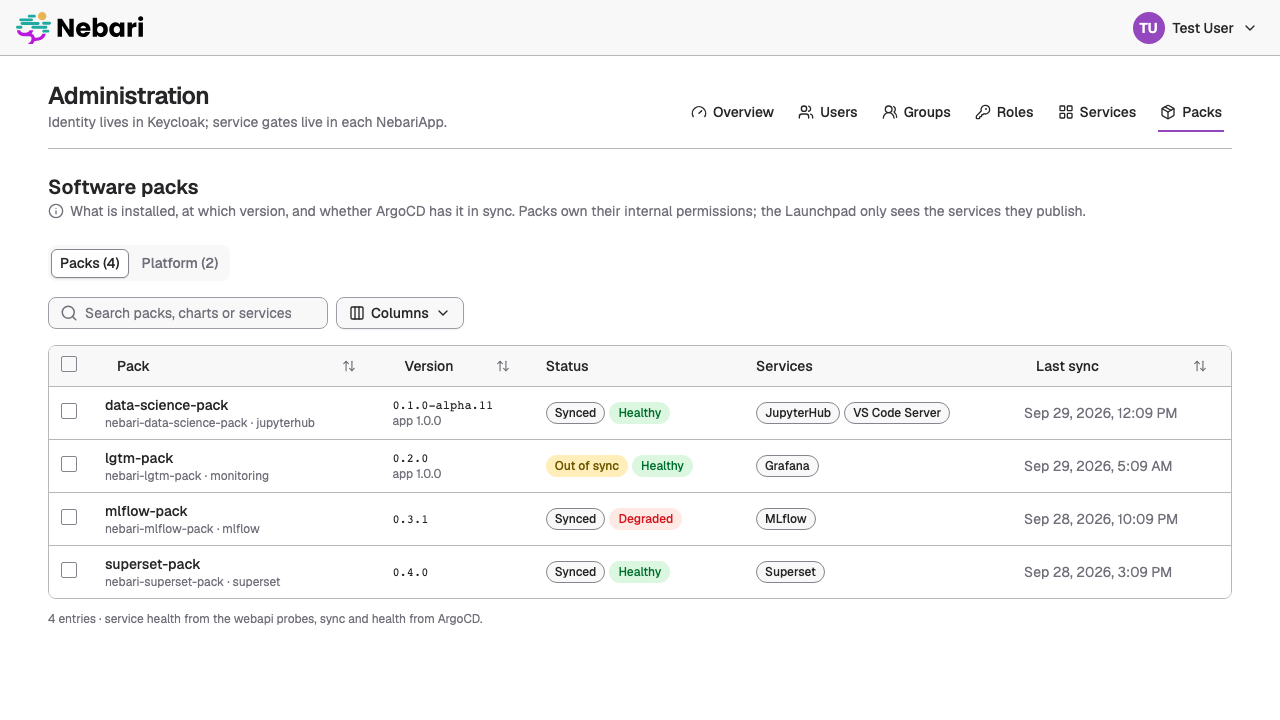
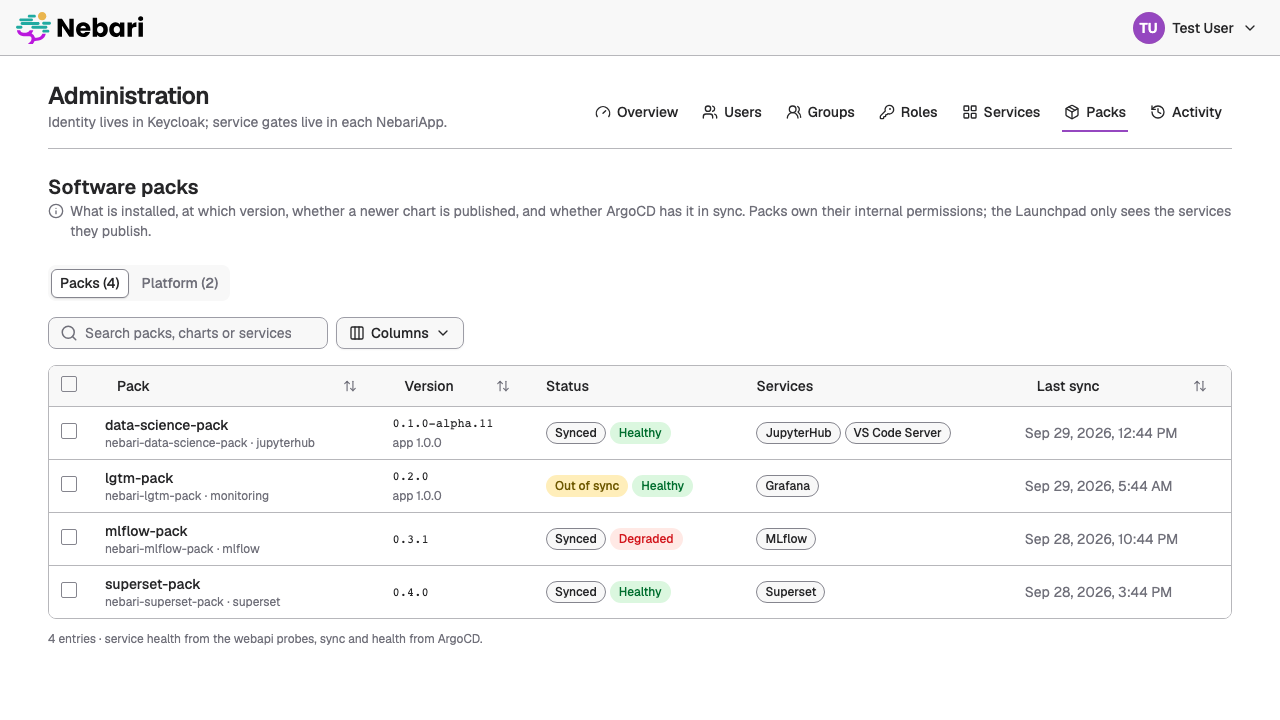
feat(frontend): version drift on pack detail, overview attention and mocks
Claude-Session: https://claude.ai/code/session_01P6LHR1J8qoTHyei6oh5qmU

diff --git a/frontend/src/admin/pages/OverviewPage.tsx b/frontend/src/admin/pages/OverviewPage.tsx
@@ -17,6 +17,7 @@ import { EmptyState } from "../components/EmptyState";
 import { StatusBadge as AccountStatusBadge } from "../components/EntityBadges";
 import { PageHeader } from "../components/PageHeader";
 import { StatTile } from "../components/StatTile";
+import { VersionBadge } from "../components/VersionBadge";
 import { useAdminOverview, useAdminWorld, usePacks } from "../hooks/useAdminData";
 import { displayName, formatDateTime, pluralize } from "../lib/format";
 
@@ -64,7 +65,8 @@ export function OverviewPage() {
       if (!p.argo) continue;
       const bad = p.argo.healthStatus !== "Healthy" && p.argo.healthStatus !== "Unknown";
       const drift = p.argo.syncStatus === "OutOfSync";
-      if (!bad && !drift) continue;
+      const behind = p.versionStatus === "behind";
+      if (!bad && !drift && !behind) continue;
       rows.push({
         key: `pack-${p.name}`,
         kind: p.tier,
@@ -73,6 +75,7 @@ export function OverviewPage() {
           <span className="flex flex-wrap items-center gap-1">
             {drift ? <SyncBadge status={p.argo.syncStatus} /> : null}
             {bad ? <ArgoHealthBadge status={p.argo.healthStatus} /> : null}
+            {behind ? <VersionBadge pack={p} /> : null}
             <span className="text-muted-foreground">
               {p.chartName}
               {p.chartVersion ? ` ${p.chartVersion}` : ""}
@@ -210,7 +213,8 @@ export function OverviewPage() {
         <div>
           <h3 className="text-base font-semibold text-foreground">Needs attention</h3>
           <p className="text-sm text-muted-foreground">
-            Unhealthy services, drifted or degraded packs, and accounts that can't reach anything.
+            Unhealthy services, drifted, degraded or outdated packs, and accounts that can't reach
+            anything.
           </p>
         </div>
         {worldLoading || packs.isPending ? (

diff --git a/frontend/src/admin/pages/PackDetailPage.tsx b/frontend/src/admin/pages/PackDetailPage.tsx
@@ -18,6 +18,7 @@ import { EmptyState } from "../components/EmptyState";
 import { GroupBadge, VisibilityBadge } from "../components/EntityBadges";
 import { PageHeader } from "../components/PageHeader";
 import { StatTile } from "../components/StatTile";
+import { VersionBadge } from "../components/VersionBadge";
 import { useAdminWorld, usePacks } from "../hooks/useAdminData";
 import { formatDateTime, pluralize } from "../lib/format";
 
@@ -86,7 +87,13 @@ export function PackDetailPage() {
         <StatTile
           label="Chart version"
           value={pack.chartVersion || argo?.targetRevision || "—"}
-          detail={pack.chartName}
+          detail={
+            <span className="flex flex-wrap items-center gap-1">
+              {pack.chartName ? <span>{pack.chartName}</span> : null}
+              <VersionBadge pack={pack} />
+            </span>
+          }
+          tone={pack.versionStatus === "behind" ? "warning" : "default"}
         />
         <StatTile
           label="Last sync"
